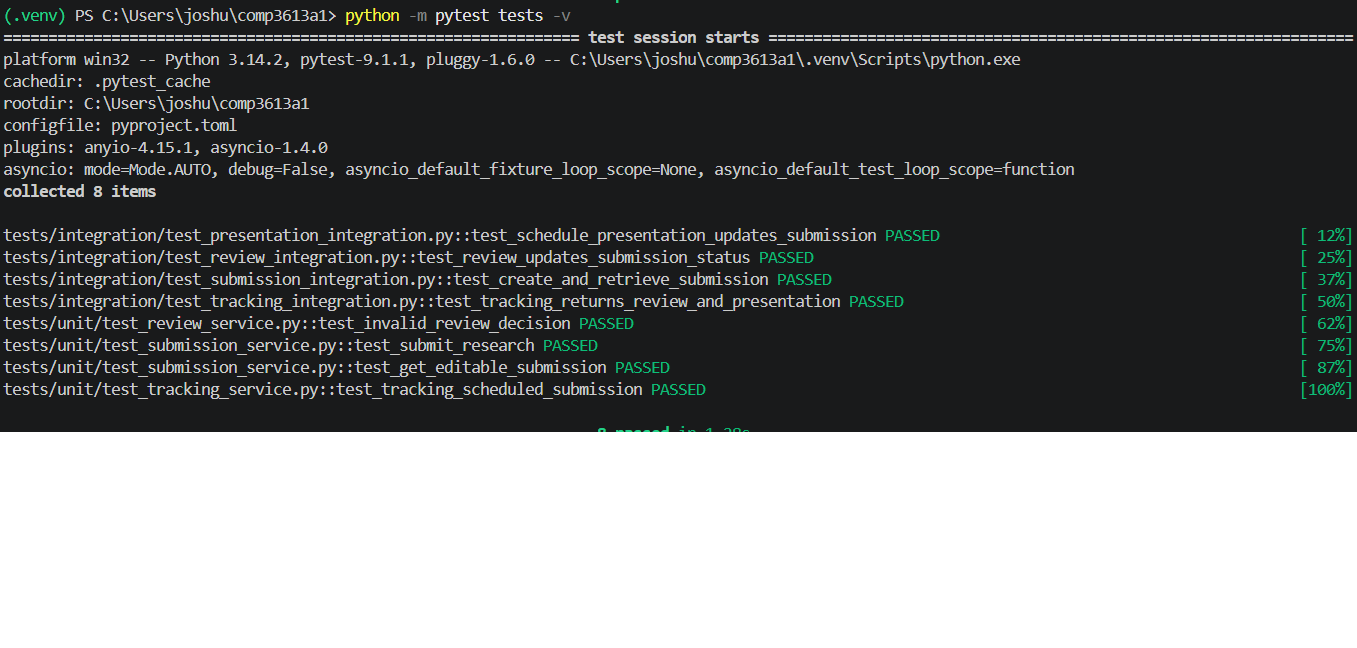
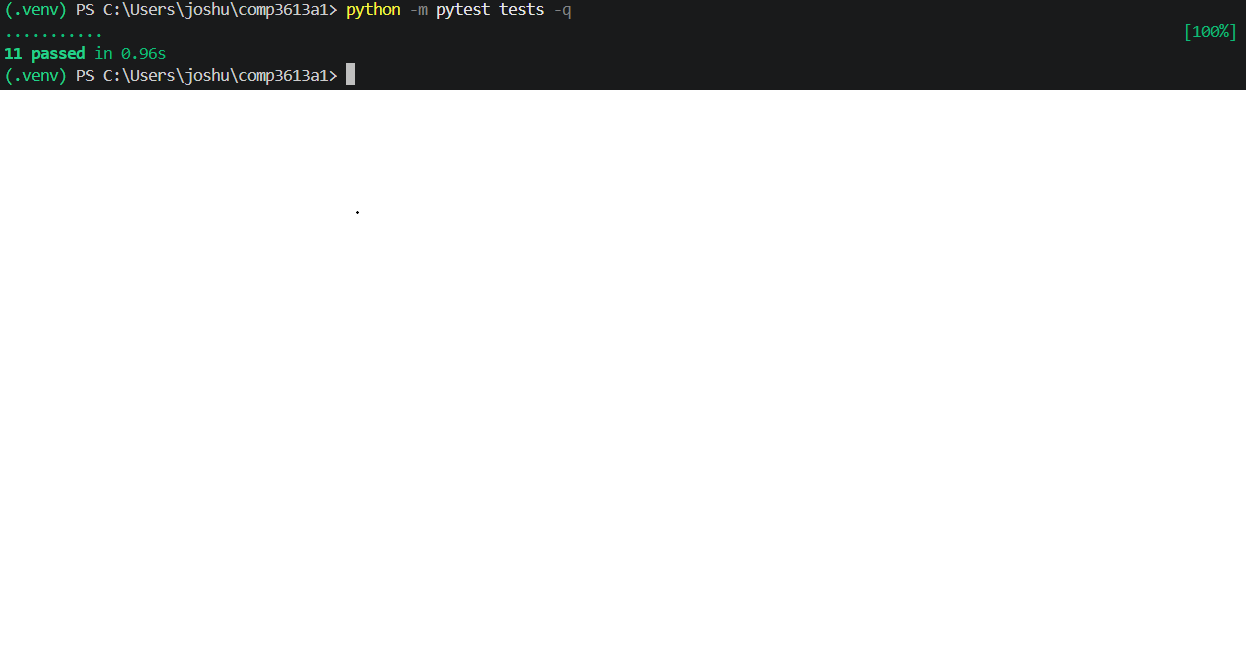
Add negative tests and update final testing evidence

diff --git a/tests/unit/test_tracking_service.py b/tests/unit/test_tracking_service.py
@@ -3,6 +3,7 @@ from unittest.mock import Mock
 
 from app.services.tracking_service import TrackingService
 
+import pytest
 
 def test_tracking_scheduled_submission():
     submission_repository = Mock()
@@ -54,3 +55,31 @@ def test_tracking_scheduled_submission():
     ]
 
     submission_repository.get_for_researcher.assert_called_once_with(1, 1)
+
+
+def test_cannot_track_another_researchers_submission():
+    submission_repository = Mock()
+    review_repository = Mock()
+    presentation_repository = Mock()
+
+    # Ownership-filtered lookup returns no submission.
+    submission_repository.get_for_researcher.return_value = None
+
+    service = TrackingService(
+        submission_repository=submission_repository,
+        review_repository=review_repository,
+        presentation_repository=presentation_repository,
+    )
+
+    with pytest.raises(
+        LookupError,
+        match="Submission not found"
+    ):
+        service.get_submission_details(
+            submission_id=1,
+            researcher_id=2,
+        )
+
+    submission_repository.get_for_researcher.assert_called_once_with(1, 2)
+    review_repository.get_for_submission.assert_not_called()
+    presentation_repository.get_for_submission.assert_not_called()

diff --git a/tests/unit/test_review_service.py b/tests/unit/test_review_service.py
@@ -25,3 +25,34 @@ def test_invalid_review_decision():
         )
 
     repository.save.assert_not_called()
+
+
+def test_valid_review_decision():
+    repository = Mock()
+
+    submission = Mock()
+    submission.id = 1
+    submission.status = "Submitted"
+
+    repository.get_submission.return_value = submission
+    repository.get_for_submission.return_value = None
+
+    service = ReviewService(
+        review_repository=repository
+    )
+
+    service.save_review(
+        submission_id=1,
+        feedback="Research approved",
+        decision="Accepted",
+        reviewer_id=2
+    )
+
+    repository.save.assert_called_once()
+
+    saved_review, updated_submission = repository.save.call_args.args
+
+    assert saved_review.decision == "Accepted"
+    assert saved_review.feedback == "Research approved"
+    assert saved_review.reviewer_id == 2
+    assert updated_submission.status == "Accepted"

diff --git a/tests/unit/test_submission_service.py b/tests/unit/test_submission_service.py
@@ -64,3 +64,29 @@ def test_get_editable_submission():
 
     assert result == submission
     repository.get_for_researcher.assert_called_once_with(1, 1)
+
+
+def test_cannot_edit_accepted_submission():
+    repository = Mock()
+
+    submission = Mock()
+    submission.id = 1
+    submission.researcher_id = 1
+    submission.status = "Accepted"
+
+    repository.get_for_researcher.return_value = submission
+
+    service = SubmissionService(
+        submission_repository=repository
+    )
+
+    with pytest.raises(
+        LookupError,
+        match="Editable submission not found"
+    ):
+        service.get_editable_submission(
+            submission_id=1,
+            researcher_id=1
+        )
+
+    repository.get_for_researcher.assert_called_once_with(1, 1)
